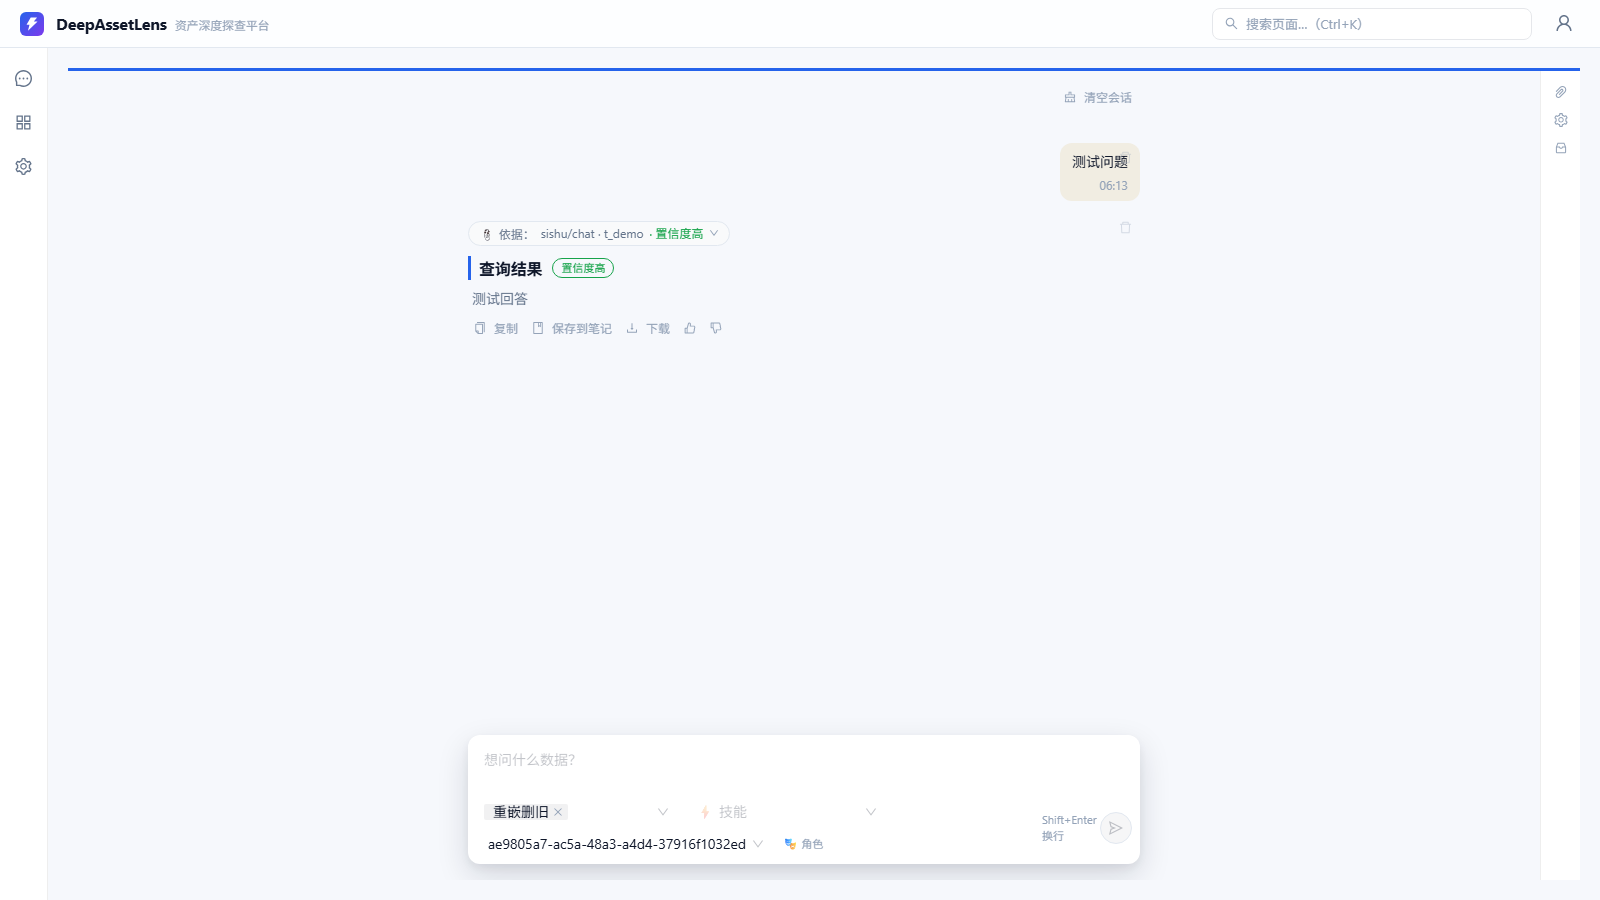
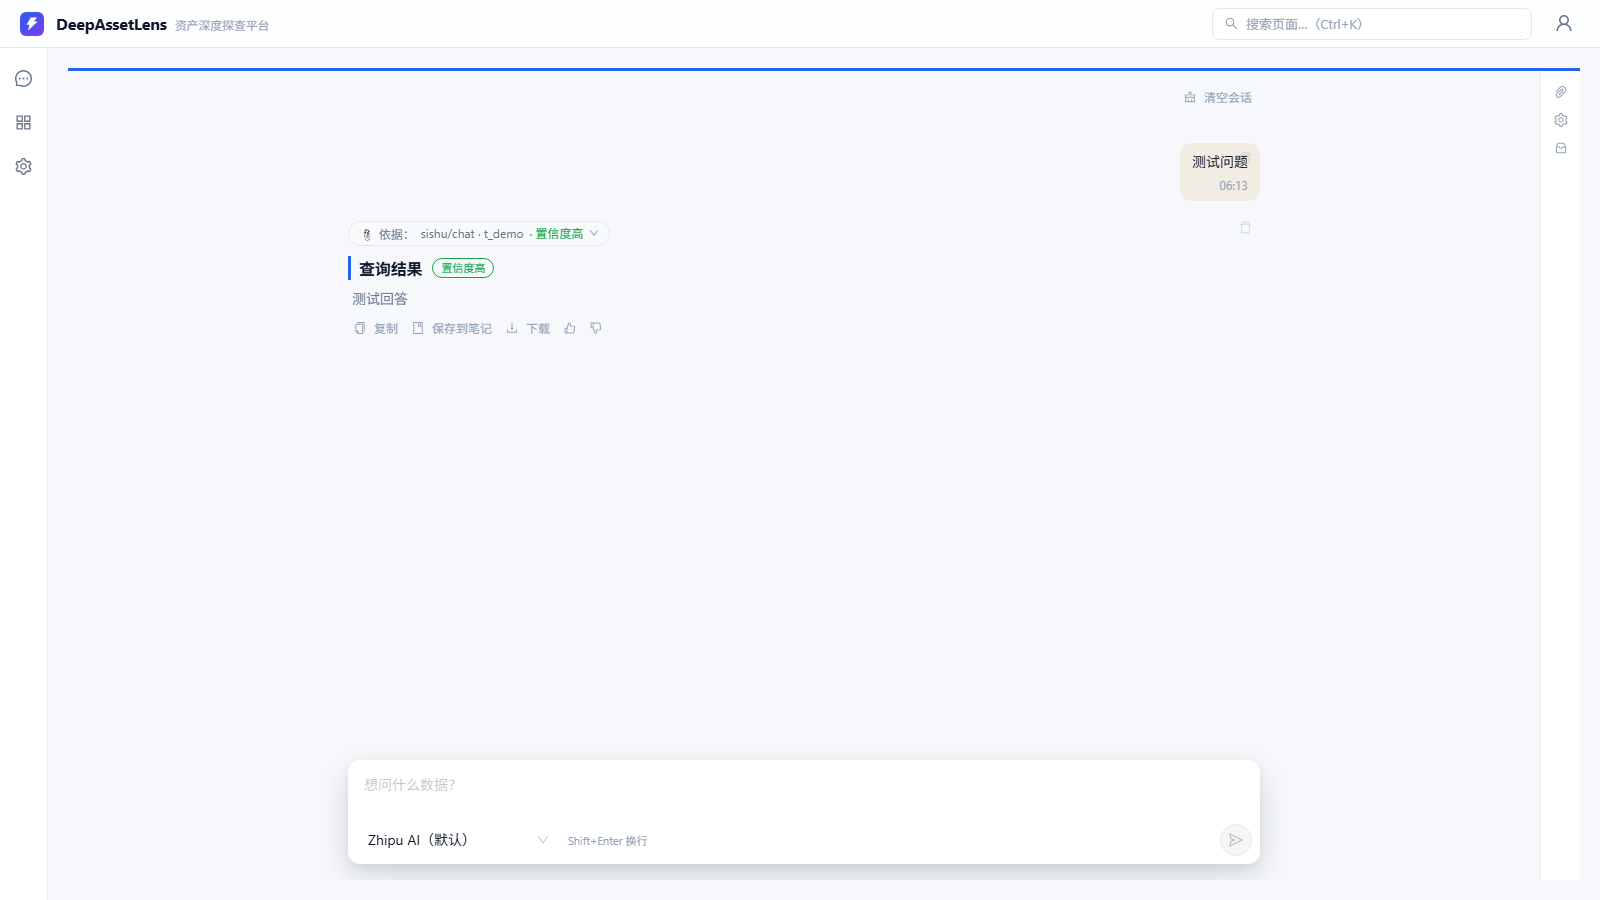
对拍资产与配置刷新：_pw_newchat 补R#13正向断言+b1b重构+st_bootstrap 0.29.2适配+截图+mcp sap-adt

diff --git a/backend/scripts/_pw_b1b.py b/backend/scripts/_pw_b1b.py
@@ -4,6 +4,7 @@ import sys
 import time
 from pathlib import Path
 
+sys.stdout.reconfigure(encoding="utf-8", errors="replace")  # UX2批②：GBK 控制台容错（🤖 emoji）
 from playwright.sync_api import sync_playwright
 
 SCR = Path(__file__).parent
@@ -22,28 +23,16 @@ with sync_playwright() as p:
     b = p.chromium.launch(headless=True)
     pg = login_page(b)
 
-    # ── 首屏 8 宫格：点击回填不直发 ──
-    pg.goto(BASE + "/", timeout=90000, wait_until="domcontentloaded")
-    pg.wait_for_timeout(6000)
-    grid = pg.locator("[data-testid='newchat-templates']")
-    check("宫格渲染", grid.count() > 0)
-    cells = pg.locator("[data-testid='newchat-templates'] [role='button']")
-    check("8 模板格", cells.count() == 8, f"cells={cells.count()}")
-    if cells.count() >= 1:
-        cells.first.click()
-        pg.wait_for_timeout(800)
-        ta = pg.locator("[data-testid='newchat-composer'] textarea").first
-        val = ta.input_value()
-        check("点击回填 composer 值=模板文案", "{主题}" in val, val[:40])
-        check("未直发（URL 仍在 /）", pg.url.rstrip("/") == BASE, pg.url[-30:])
-        focused = pg.evaluate("() => document.activeElement === document.querySelector(\"[data-testid='newchat-composer'] textarea\")")
-        check("回填后聚焦输入框", focused)
-        # 自定义格=空模板聚焦
-        custom = pg.locator("[data-testid='newchat-template-自定义']")
-        if custom.count() > 0:
-            custom.click()
-            pg.wait_for_timeout(500)
-            check("自定义格=空回填", pg.locator("[data-testid='newchat-composer'] textarea").first.input_value() == "")
+    # ── UX2批① 新门户契约（三卡替代旧 8 宫格+composer——用户反馈①正式变更） ──
+    check("① 门户三卡在场", pg.locator("[data-testid='portal-card-wenshu']").count() == 1
+          and pg.locator("[data-testid='portal-card-sishu']").count() == 1
+          and pg.locator("[data-testid='portal-card-h5']").count() == 1)
+    pg.locator("[data-testid='portal-card-wenshu']").click()
+    pg.wait_for_timeout(2000)
+    check("① 问数卡单跳对话页", "/e/wenshu/chat" in pg.url, pg.url[:60])
+    # 回填不直发契约移至对话页建议卡（ExpertChat 2×2 建议卡 setQuestion 不发送）
+    pg.goto(BASE + "/", timeout=60000, wait_until="domcontentloaded")
+    pg.wait_for_timeout(4000)
 
     # ── 对话页附件条 + 右栏（注入种子会话——右栏需已有消息渲染） ──
     import json as _json
@@ -64,27 +53,27 @@ with sync_playwright() as p:
     pg.wait_for_timeout(6000)
     bar = pg.locator("[data-testid='attachment-bar']")
     check("附件条渲染", bar.count() > 0)
-    for tid in ("attach-kb", "attach-skill", "attach-model"):
+    # UX2批② 附件条瘦身后：仅 attach-model（kb/skill/role 选择器移除=用户反馈②合理变更）
+    for tid in ("attach-model",):
         check(f"选择器 {tid} 在场", pg.locator(f"[data-testid='{tid}']").count() > 0)
-    # 选知识库 → localStorage 记忆
-    kb_sel = pg.locator("[data-testid='attach-kb']")
-    kb_sel.click()
+    model_sel = pg.locator("[data-testid='attach-model']")
+    model_sel.click()
     pg.wait_for_timeout(1200)
     opts = pg.locator(".ant-select-dropdown:not(.ant-select-dropdown-hidden) .ant-select-item-option")
     if opts.count() > 0:
         first_label = opts.first.inner_text()
         opts.first.click()
         pg.wait_for_timeout(800)
-        kb_sel.press("Escape")
+        model_sel.press("Escape")
         pg.wait_for_timeout(300)
-        stored = pg.evaluate("() => localStorage.getItem('attach:wenshu:kb') || ''")
-        check("📚 选择落 localStorage", first_label[:10] in stored or "kb" in stored, stored[:60])
+        stored = pg.evaluate("() => localStorage.getItem('attach:wenshu:model') || ''")
+        check("🤖 选择落 localStorage", first_label[:10] in stored or "model" in stored, stored[:60])
         pg.reload(wait_until="domcontentloaded")
         pg.wait_for_timeout(6000)
-        chips = pg.locator("[data-testid='attach-kb'] .ant-select-selection-item").count()
-        check("reload 后知识库选择保持", chips > 0, f"chips={chips}")
+        chips = pg.locator("[data-testid='attach-model'] .ant-select-selection-item").count()
+        check("reload 后模型选择保持", chips > 0, f"chips={chips}")
     else:
-        check("📚 选择落 localStorage", False, "无知识库选项（库列表空）")
+        check("🤖 选择落 localStorage", False, "无模型选项（连接列表空）")
 
     # 右栏三态：细条→展开→收起
     strip = pg.locator("[data-testid='context-rail-strip']")

diff --git a/backend/scripts/_pw_newchat.py b/backend/scripts/_pw_newchat.py
@@ -54,6 +54,22 @@ with sync_playwright() as p:
     expect_url = "/e/wenshu/chat?new=1&q=" + urllib.parse.quote(q, safe="")
     # 批⓪ R#6 后契约：落到对话页且 URL 已立即清参（?q=/?new=1 不驻留）
     check("发送直达对话页", "/e/wenshu/chat" in pg.url and "q=" not in pg.url and "new=1" not in pg.url, pg.url[:90])
+    # R#13 正向断言（R队列要求补）：问题气泡出现 + chat 请求到达后端——
+    # 旧形态 cleanup 掐定时器=首问静默丢失（无气泡无请求），此二断言是修法回归门。
+    got_bubble = False
+    got_chat_req = False
+    reqs = []
+    pg.on("request", lambda r: reqs.append(r.url) if (r.method == "POST" and ("chat" in r.url or "capability" in r.url)) else None)
+    t0b = __import__("time").time()
+    while __import__("time").time() - t0b < 30:
+        if "统计用电客户总数" in pg.inner_text("body"):
+            got_bubble = True
+            break
+        pg.wait_for_timeout(500)
+    check("R#13正向：问题气泡出现", got_bubble, f"waited={int(__import__('time').time()-t0b)}s")
+    pg.wait_for_timeout(3000)
+    got_chat_req = any(("chat" in u or "capability" in u) for u in reqs)
+    check("R#13正向：chat请求到达后端", got_chat_req, f"posts={len(reqs)}")
     # 流式回答：等待回答文本或表格（600s 上限——探针实测 330s 交付/偶发 >420s，LLM 多轮推理延迟方差非回归）
     got = False
     import time

diff --git a/backend/scripts/_st_bootstrap_admin.py b/backend/scripts/_st_bootstrap_admin.py
@@ -42,12 +42,14 @@ async def _signup_or_get(email: str, password: str) -> str:
 
 
 async def _get_user_by_email(email: str):
+    # 0.29.2 API：list_users_by_account_info 按 email 精确取回（sign_up 重复场景）
     from supertokens_python import asyncio as st_asyncio
+    from supertokens_python.types import AccountInfo
 
-    users = await st_asyncio.get_users_newest_first_with_public_tenant_info(
-        None, None, "emailpassword", email
+    result = await st_asyncio.list_users_by_account_info(
+        "public", AccountInfo(email=email), user_context=None
     )
-    return users
+    return result
 
 
 def _upsert_mirror(sub: str, email: str, username: str) -> None:
